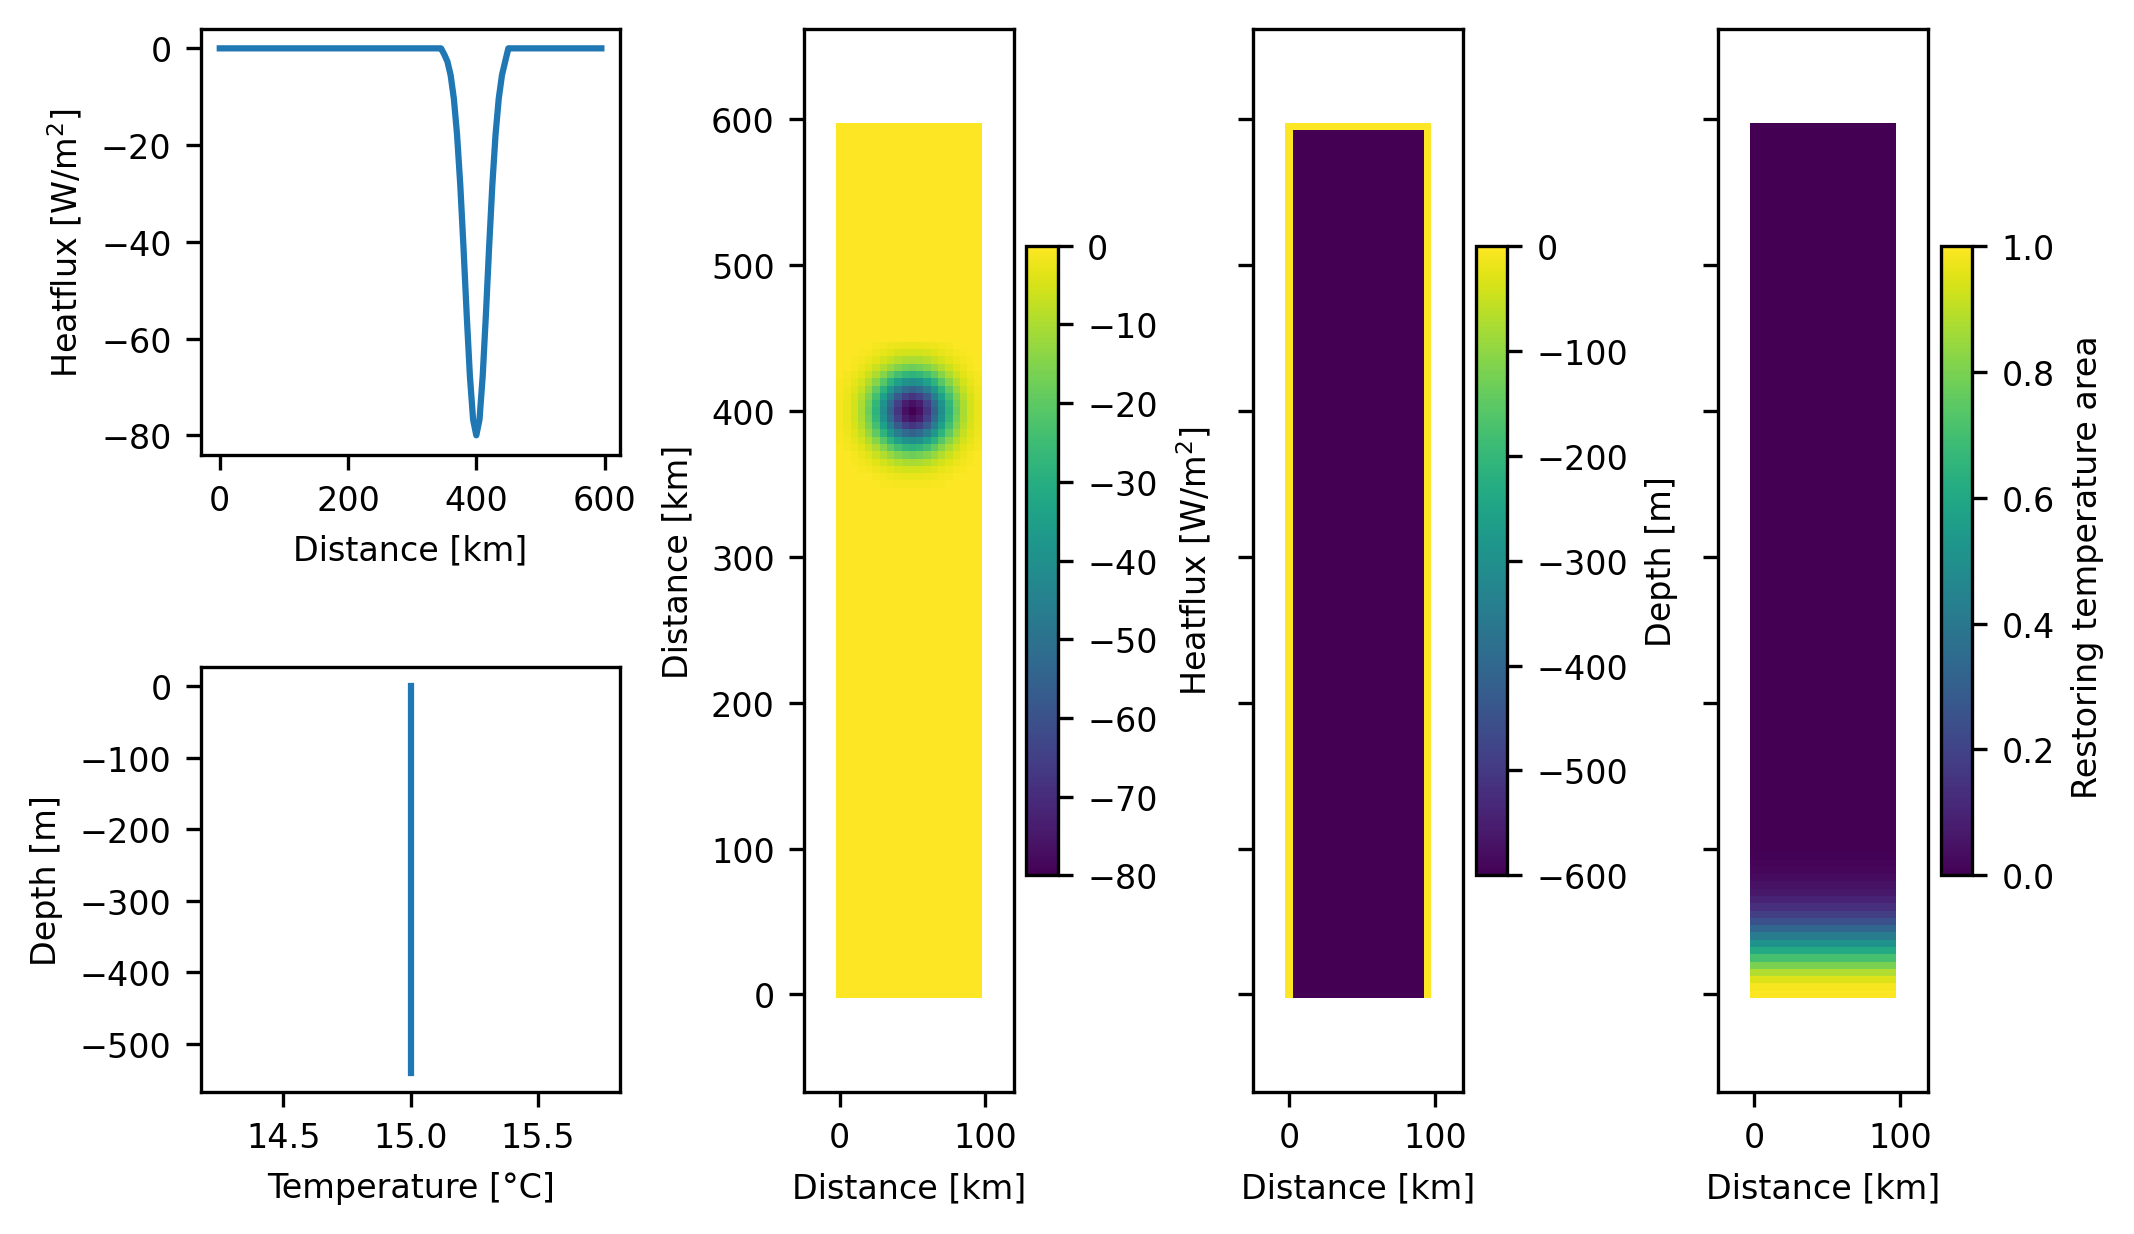
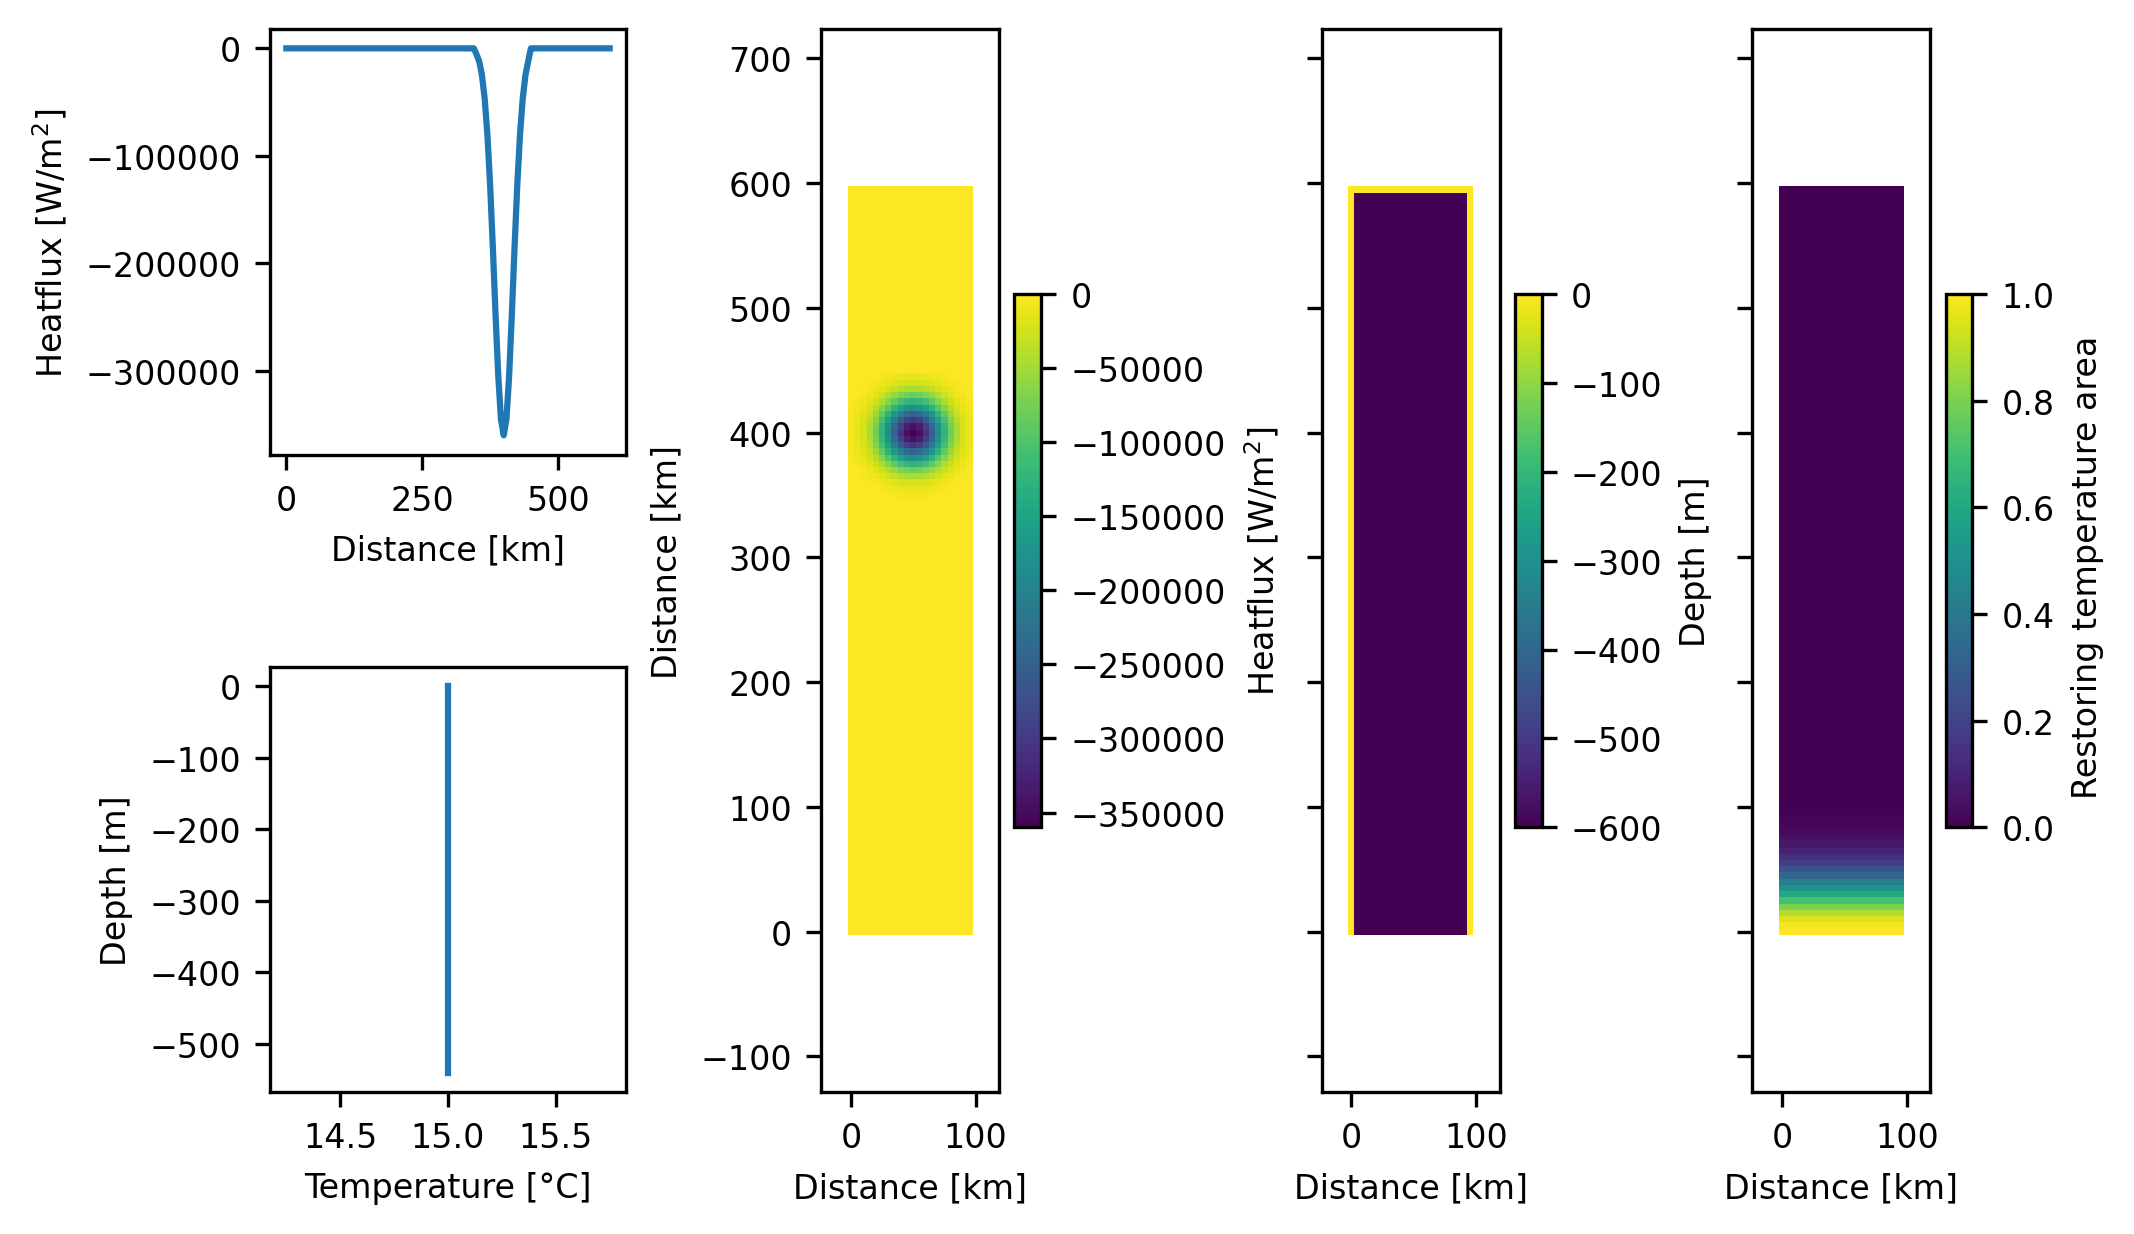
new scripts from Karina

diff --git a/Spall/input/gendata.py b/Spall/input/gendata.py
@@ -56,7 +56,7 @@ def gaussC(x, y, sigma, center):
 #Defining heatflux
 
 X,Xno=np.meshgrid(x,x)
-out=gauss2d(X,12,[10,10])*-80
+out=gauss2d(X,12,[10,10])*-360000
 Q=np.zeros((nx,ny,nt), dtype=dtype)
 Q[:,70:90,0]=out
 Q[:,70:90,1]=out
